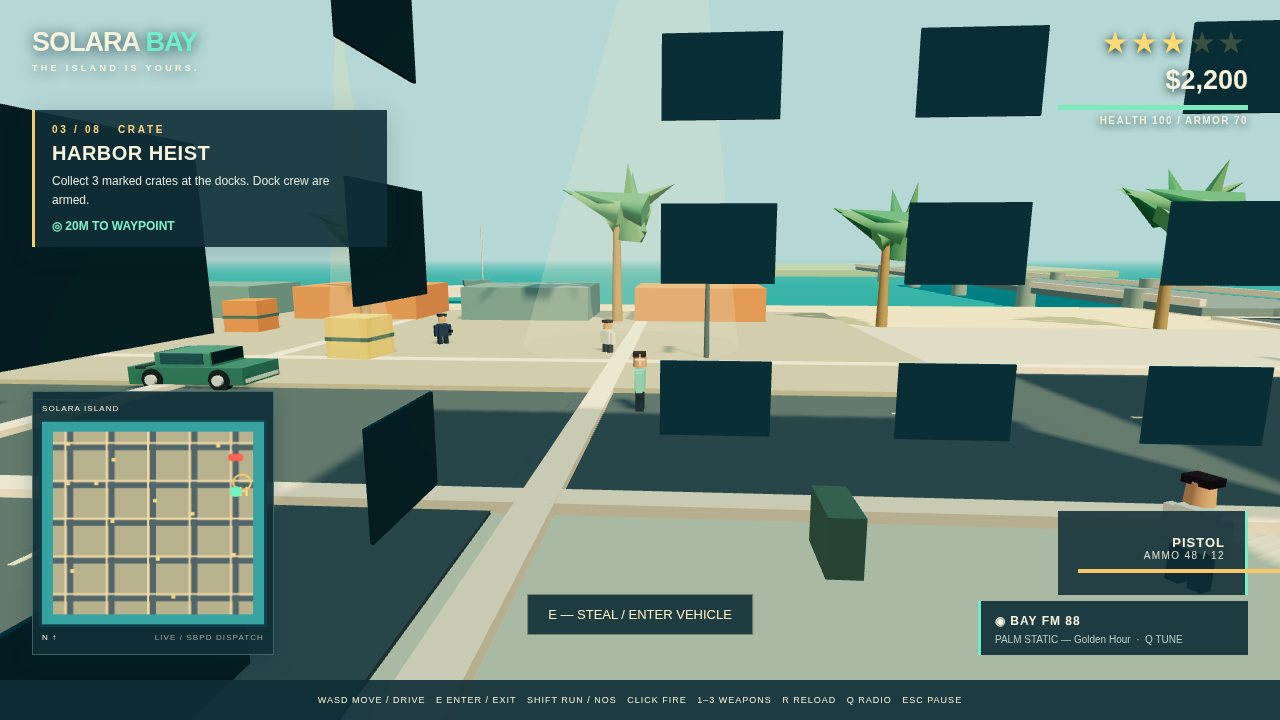
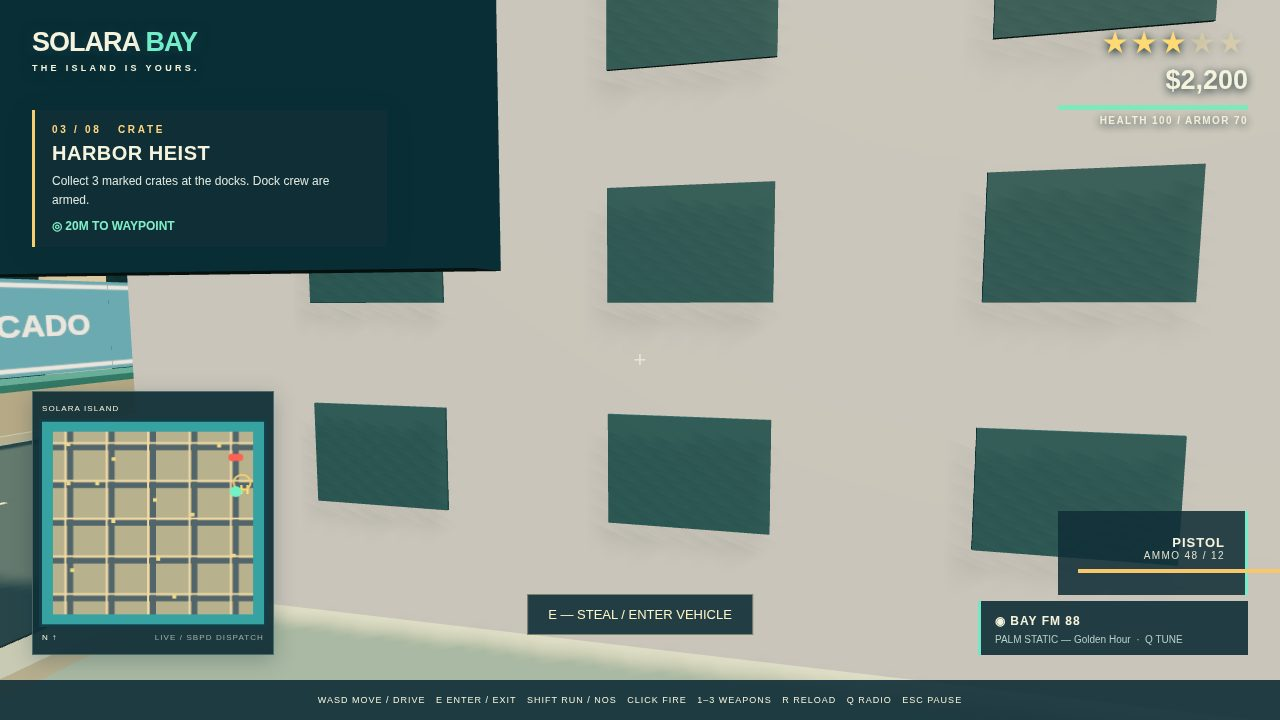
Solara Bay v2: final polish (facade panels + final screenshots)

diff --git a/game/src/world.js b/game/src/world.js
@@ -5,6 +5,25 @@ import { box, cylinder, label, material } from './models.js';
 export function buildIslandCity(scene) {
   const random = randomSource();
   const solids = [];
+  const windowCanvas = document.createElement('canvas');
+  windowCanvas.width = 320;
+  windowCanvas.height = 320;
+  const windowContext = windowCanvas.getContext('2d');
+  for (let row = 0; row < 5; row++) {
+    for (let col = 0; col < 5; col++) {
+      const x = 13 + col * 62;
+      const y = 12 + row * 62;
+      windowContext.fillStyle = '#b49e80';
+      windowContext.fillRect(x - 3, y - 3, 42, 46);
+      windowContext.fillStyle = (row + col) % 4 === 0 ? '#dfc28d' : '#477481';
+      windowContext.fillRect(x, y, 36, 40);
+      windowContext.fillStyle = '#b9d2ce';
+      windowContext.fillRect(x + 4, y + 4, 5, 30);
+      windowContext.fillStyle = '#304c54';
+      windowContext.fillRect(x, y + 29, 36, 3);
+    }
+  }
+  const windowMaterial = new THREE.MeshBasicMaterial({ map: new THREE.CanvasTexture(windowCanvas), transparent: true, side: THREE.DoubleSide, depthWrite: false });
   const water = box(scene, 0, -2.7, 0, 2400, 1, 2400, '#209da7', { roughness: .27, metalness: .3 });
   box(scene, 0, -1.1, 0, 390, 2, 390, '#ead29b');
   box(scene, 0, -.12, 0, 348, .2, 348, '#bfc1a9');
@@ -34,14 +53,22 @@ export function buildIslandCity(scene) {
         box(scene, x, height + .3, z, w + .9, .7, d + .9, '#f4dfbd');
         box(scene, x + 3, height + 1, z - 4, 5, 1.6, 4, '#749297');
         solids.push({ x, z, w: w / 2 + .5, d: d / 2 + .5 });
-        for (let y = 3; y < height - 1; y += 3.6) {
-          for (let n = -1; n <= 1; n++) {
-            for (const side of [-1, 1]) {
-              box(scene, x + n * 5.5, y, z + side * (d / 2 + .02), 2.6, 1.8, .06, '#315866', { metalness: .4 });
-              box(scene, x + side * (w / 2 + .02), y, z + n * 5.5, .06, 1.8, 2.6, '#315866');
-            }
-          }
-        }
+        const facade = new THREE.PlaneGeometry(w - 2, height - 3);
+        const front = new THREE.Mesh(facade, windowMaterial);
+        front.position.set(x, height / 2 + .8, z + d / 2 + .04);
+        scene.add(front);
+        const back = new THREE.Mesh(facade, windowMaterial);
+        back.position.set(x, height / 2 + .8, z - d / 2 - .04);
+        scene.add(back);
+        const sideFacade = new THREE.PlaneGeometry(d - 2, height - 3);
+        const left = new THREE.Mesh(sideFacade, windowMaterial);
+        left.position.set(x - w / 2 - .04, height / 2 + .8, z);
+        left.rotation.y = Math.PI / 2;
+        scene.add(left);
+        const right = new THREE.Mesh(sideFacade, windowMaterial);
+        right.position.set(x + w / 2 + .04, height / 2 + .8, z);
+        right.rotation.y = Math.PI / 2;
+        scene.add(right);
         if (random() > .45) {
           box(scene, x, 2.5, z + d / 2 + 1.3, w * .85, .28, 2.8, random() > .5 ? '#dc795f' : '#407f7e');
           label(scene, ['CAFÉ LUNA', 'SOLARA MOTEL', 'MERCADO', 'BAY RECORDS', 'MARINA CLUB'][Math.floor(random() * 5)], x, 4.7, z + d / 2 + .08, w * .8);

diff --git a/game/src/main.js b/game/src/main.js
@@ -83,6 +83,7 @@ state.missionIndex = Math.min(state.missionIndex, STORY.length - 1);
 state.missions.start(state.missionIndex);
 const params = new URLSearchParams(location.search);
 const staged = stageScreenshot(state, params);
+if (params.get('debug') === '1') window.solaraDebug = state;
 let running = false;
 let last = performance.now();
 let gameStarted = false;
@@ -147,6 +148,14 @@ function frame(now) {
     return;
   }
   state.time += dt;
+  if (state.screenshotStage) {
+    state.helicopter.update(dt, state);
+    hud.update(dt);
+    view.follow(state, dt);
+    view.draw();
+    input.end();
+    return;
+  }
   if (input.tap('Escape')) { if (state.paused) { state.paused = false; document.querySelector('#menu').innerHTML = ''; } else showPause(); }
   if (input.tap('KeyQ')) { state.radio.cycle(); state.toast(`TUNED TO ${state.radio.current.name}`); }
   if (input.tap('KeyF') && Math.hypot((state.player.car || player).x - GARAGE.x, (state.player.car || player).z - GARAGE.z) < 23) { state.paused = true; openShop(state); }

diff --git a/game/src/render.js b/game/src/render.js
@@ -19,7 +19,7 @@ export function createRenderer() {
   const sun = new THREE.DirectionalLight('#ffe2ac', 3.4);
   sun.position.set(-90, 130, 50);
   sun.castShadow = true;
-  sun.shadow.mapSize.set(2048, 2048);
+  sun.shadow.mapSize.set(1024, 1024);
   Object.assign(sun.shadow.camera, { left: -190, right: 190, top: 190, bottom: -190, near: 1, far: 400 });
   sun.shadow.bias = -.0005;
   scene.add(sun);

diff --git a/game/src/missions.js b/game/src/missions.js
@@ -31,7 +31,7 @@ export function createMissions(state) {
     if (current().type === 'crate') {
       crateCount = 0;
       state.crates?.forEach(crate => crate.mesh.visible = true);
-    }
+    } else state.crates?.forEach(crate => crate.mesh.visible = false);
     if (current().type === 'race') checkpoints = RACE_POINTS.map(([x, z]) => ({ x, z }));
     state.save();
   }
